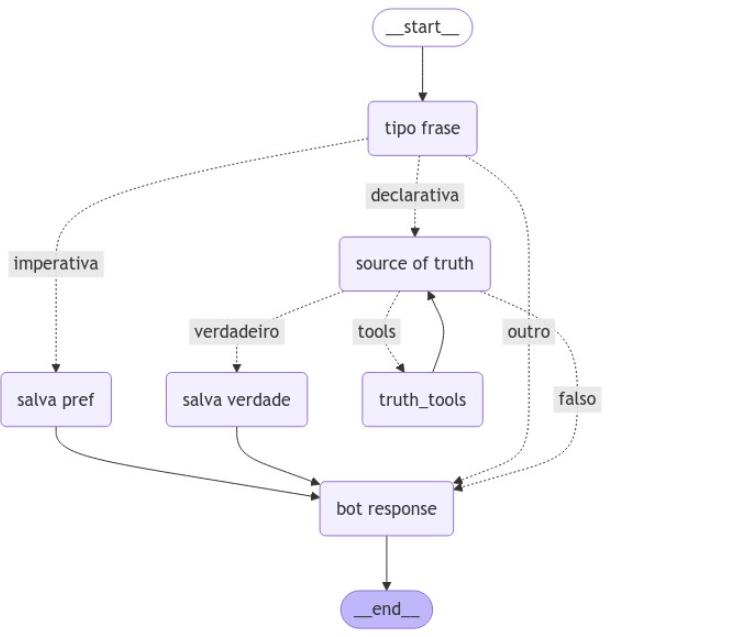
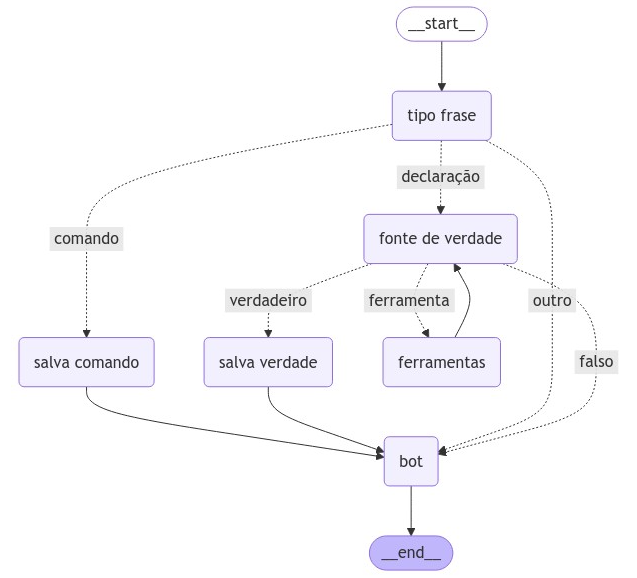
fix graph image

diff --git a/README.md b/README.md
@@ -22,8 +22,8 @@ da interação entre os agentes.
 
 <img src="./images/graph.png" alt="drawing" width="500"/>
  
- - Na imagem os agentes são os nós [**tipo frase**], [**source of truth**] e [**bot response**]. O nó [**truth_tools**] possui as ferramentas.
- [**salva pref**] e [**salva verdade**] são responsáveis por salva a preferencia ou comando e a afirmação verdadeira do usuário. 
+ - Na imagem os agentes são os nós [**tipo frase**], [**fonte de verdade**] e [**bot**]. O nó [**ferramentas**] possui as ferramentas de busca.
+ [**salva comando**] e [**salva verdade**] são responsáveis por salva a preferencia ou comando e a afirmação verdadeira do usuário. 
 
 ## Instalação 
 ### 1. Docker:
